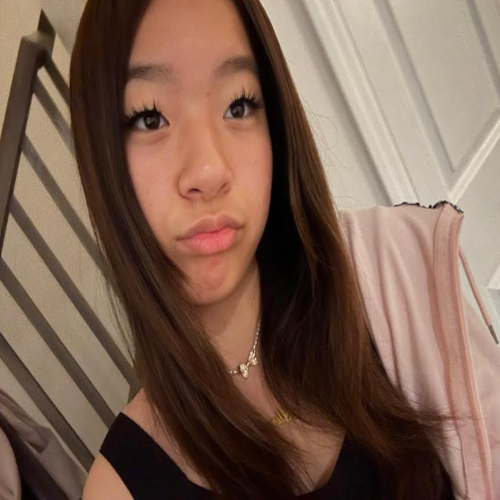
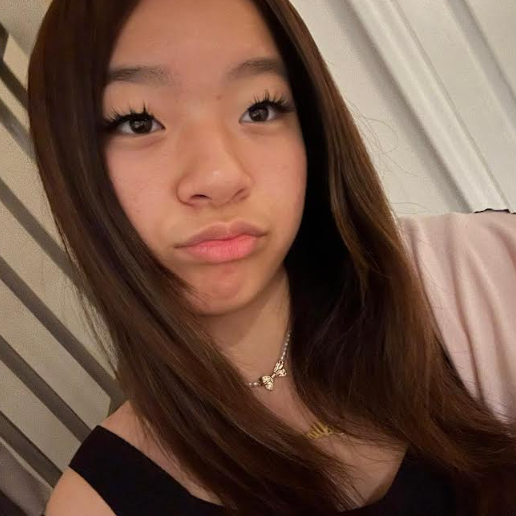
Made square headshot images and added carousel for about page

diff --git a/src/Media.js b/src/Media.js
@@ -36,52 +36,6 @@ function Media() {
                     <span class="visually-hidden">Next</span>
                 </a>
             </div>
-            <div id="carousel-team-headshots" class="carousel slide" data-bs-ride="carousel">
-                <div class="carousel-indicators">
-                    <button type="button" data-bs-target="#carousel-team-headshots" data-bs-slide-to="0" class="active"></button>
-                    <button type="button" data-bs-target="#carousel-team-headshots" data-bs-slide-to="1"></button>
-                    <button type="button" data-bs-target="#carousel-team-headshots" data-bs-slide-to="2"></button>
-                    <button type="button" data-bs-target="#carousel-team-headshots" data-bs-slide-to="3"></button>
-                    <button type="button" data-bs-target="#carousel-team-headshots" data-bs-slide-to="4"></button>
-                    <button type="button" data-bs-target="#carousel-team-headshots" data-bs-slide-to="5"></button>
-                    <button type="button" data-bs-target="#carousel-team-headshots" data-bs-slide-to="6"></button>
-                    <button type="button" data-bs-target="#carousel-team-headshots" data-bs-slide-to="7"></button>
-                </div>
-                <div class="carousel-inner">
-                    <div class="carousel-item active">
-                        <img class="d-block w-100" alt="" src="/headshotDiya.png" />
-                    </div>
-                    <div class="carousel-item">
-                        <img class="d-block w-100" alt="" src="/headshotUrvi.png" />
-                    </div>
-                    <div class="carousel-item">
-                        <img class="d-block w-100" alt="" src="/headshotAdrien.jpg" />
-                    </div>
-                    <div class="carousel-item">
-                        <img class="d-block w-100" alt="" src="/headshotStefan.png" />
-                    </div>
-                    <div class="carousel-item">
-                        <img class="d-block w-100" alt="" src="/headshotAfeef.png" />
-                    </div>
-                    <div class="carousel-item">
-                        <img class="d-block w-100" alt="" src="/headshotAlina.png" />
-                    </div>
-                    <div class="carousel-item">
-                        <img class="d-block w-100" alt="" src="/headshotKunsh.png" />
-                    </div>
-                    <div class="carousel-item">
-                        <img class="d-block w-100" alt="" src="/headshotJoydrutt.png" />
-                    </div>
-                </div>
-                <a class="carousel-control-prev" data-bs-target="#carousel-team-headshots" role="button" data-bs-slide="prev">
-                    <span class="carousel-control-prev-icon" aria-hidden="true"></span>
-                    <span class="visually-hidden">Previous</span>
-                </a>
-                <a class="carousel-control-next" data-bs-target="#carousel-team-headshots" role="button" data-bs-slide="next">
-                    <span class="carousel-control-next-icon" aria-hidden="true"></span>
-                    <span class="visually-hidden">Next</span>
-                </a>
-            </div>
         </div>
     )
 }

diff --git a/src/Media.css b/src/Media.css
@@ -1,14 +1,7 @@
 #carousel {
-    width: 60vw;
+    width: 75vw;
     height: auto;
     position: absolute;
-    left: 5vw;
-    top: 25vh;
-}
-#carousel-team-headshots {
-    width: 30vw;
-    height: auto;
-    position: absolute;
-    left: 67.5vw;
-    top: 25vh;
+    left: 20vw;
+    top: 10vh;
 }
